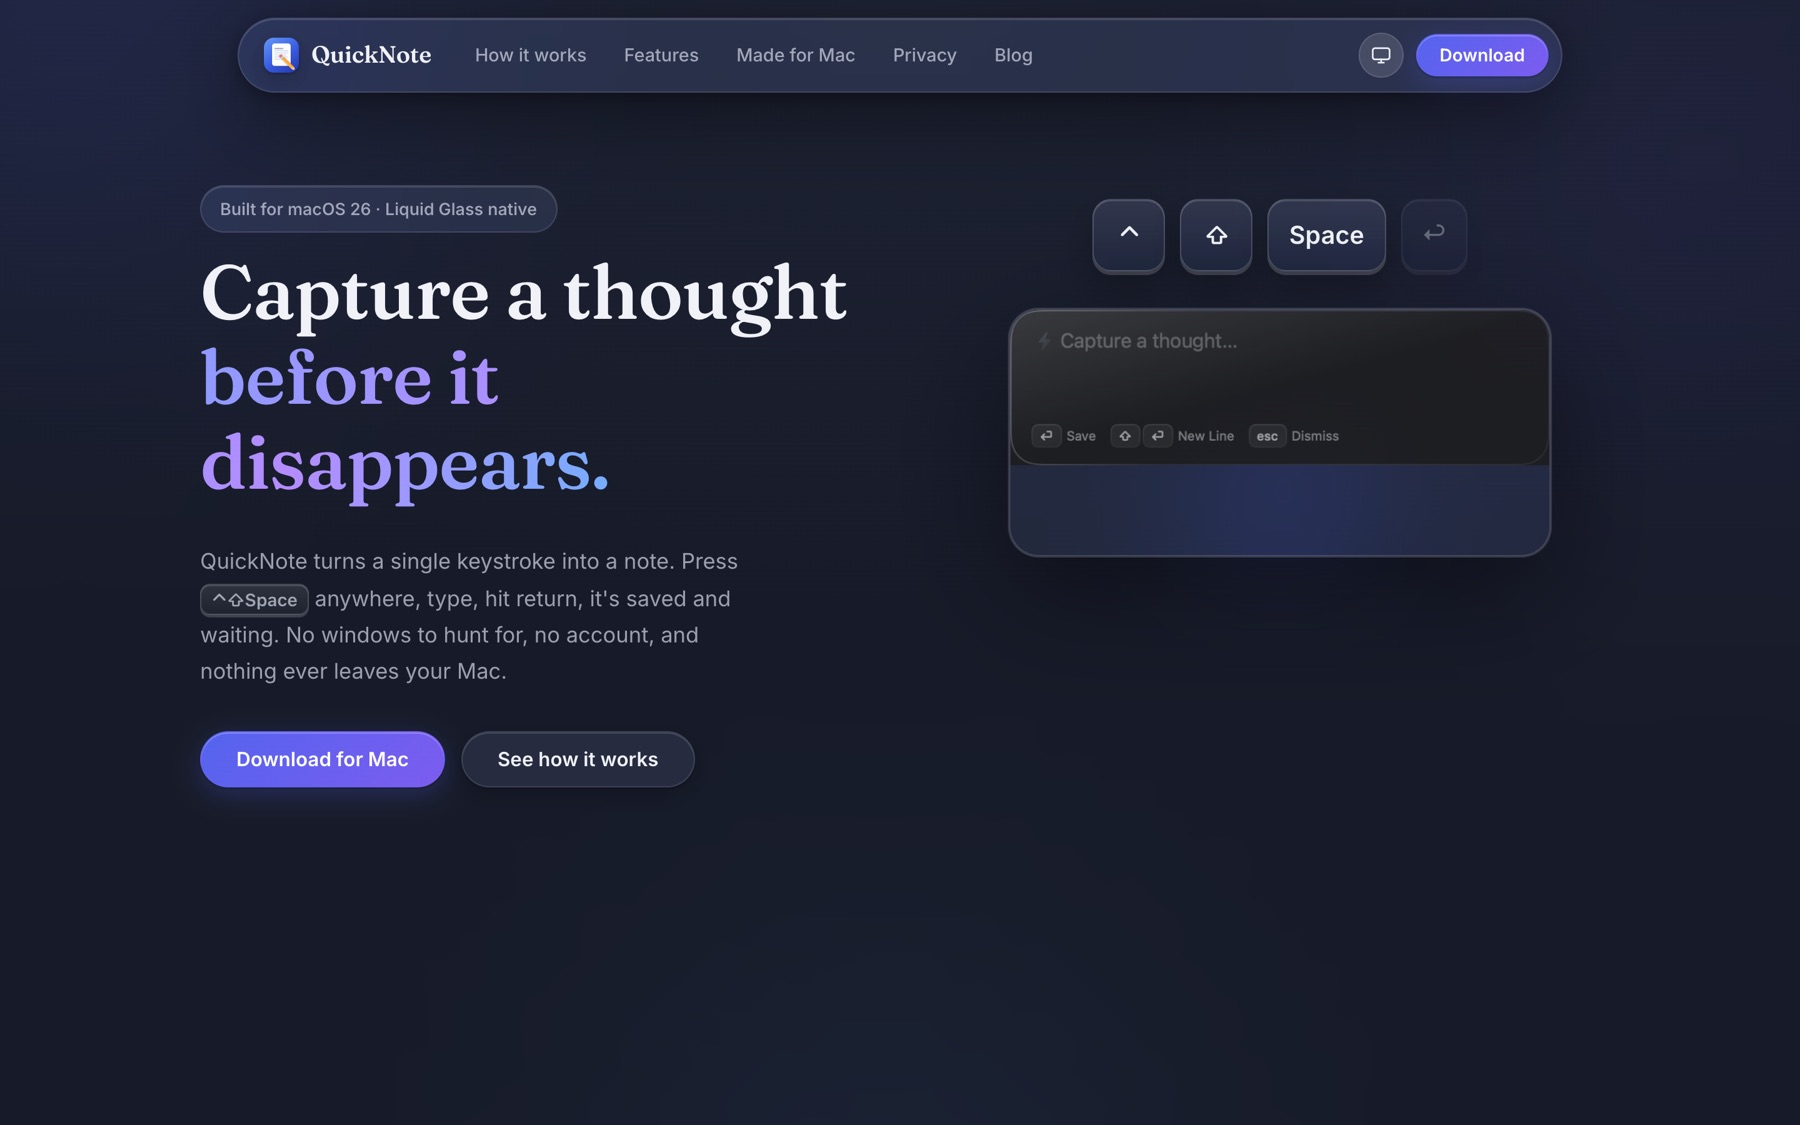
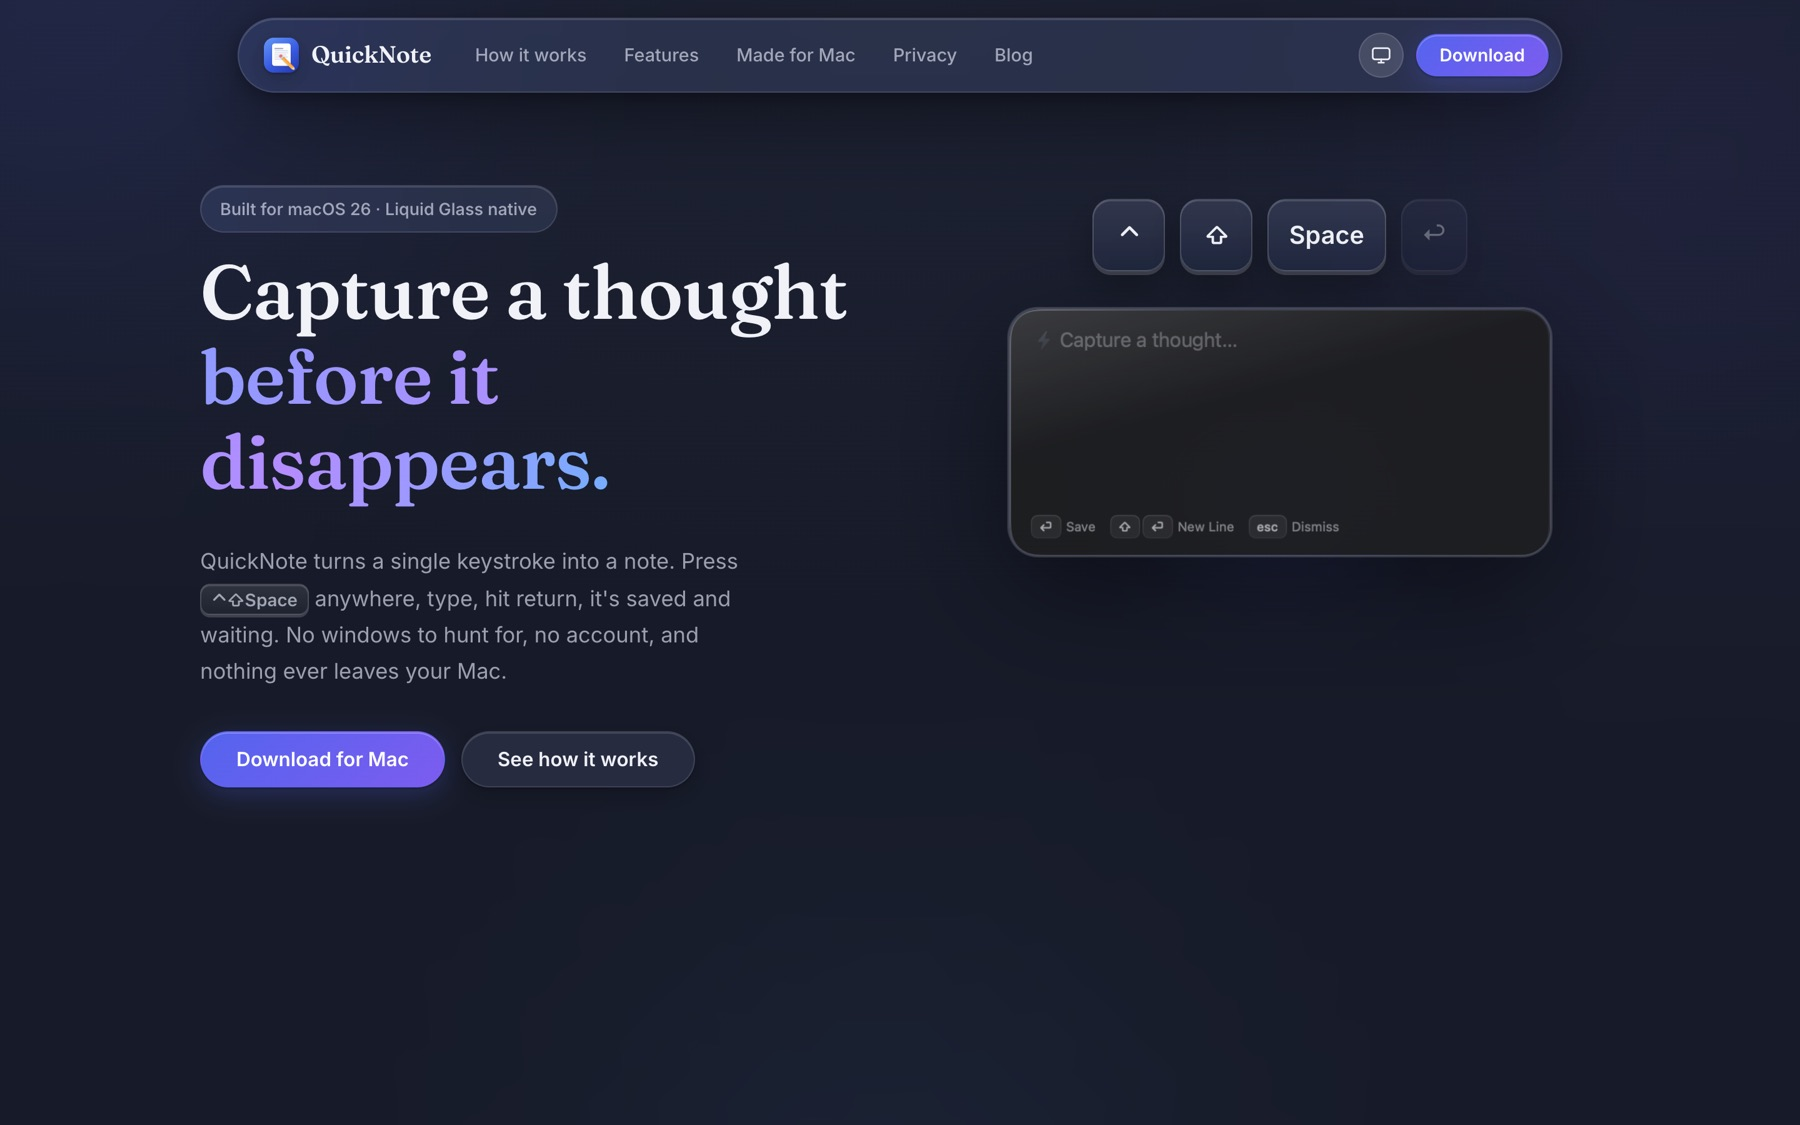
Fix hero: re-extend empty capture panels to full height, document the step

Changed region(s): [[0.56, 0.3733, 0.8711, 0.4978]]

diff --git a/README.md b/README.md
@@ -123,6 +123,14 @@ All product visuals come from the app repo (`../QuickNote`):
 
 Copy the PNGs from the app's temp `quicknote-snapshots/` directory into
 `public/assets/screenshots/` (names in `content/screenshots-MANIFEST.md`).
+The two empty capture panels come out of the driver at 920×264 and must be
+normalized to 920×420 to match the typed panel (otherwise the hero renders
+half empty). From the app repo:
+
+```
+cp ~/Library/Containers/com.quicknote.app/Data/tmp/quicknote-snapshots/capture-empty-*.png /tmp/
+swift Scripts/extend-capture.swift /tmp/capture-empty-light.png /tmp/capture-empty-dark.png
+```
 After a new app release, bump the `version` line in the tap repo
 (`mohdhadi01/homebrew-tap`) so brew picks it up.
 
